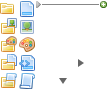
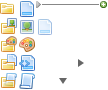
various tree/form stuff

Changed region(s): [[0.3333, 0.2, 0.5, 0.4]]

diff --git a/public/stylesheets/forms.css b/public/stylesheets/forms.css
@@ -1,0 +1,144 @@
+/* NORMALIZE AND RESET - obviously inspired by Yahoo's reset.css, but scoped to just form.breeze-form
+--------------------------------------------------------------------------------------------------*/
+form.breeze-form, form.breeze-form ul, form.breeze-form ol, form.breeze-form li, form.breeze-form fieldset, form.breeze-form legend, form.breeze-form input, form.breeze-form textarea, form.breeze-form select, form.breeze-form p { margin:0; padding:0; }
+form.breeze-form fieldset { border:0; }
+form.breeze-form em, form.breeze-form strong { font-style:normal; font-weight:normal; }
+form.breeze-form ol, form.breeze-form ul { list-style:none; }
+form.breeze-form abbr, form.breeze-form acronym { border:0; font-variant:normal; }
+form.breeze-form input, form.breeze-form textarea, form.breeze-form select { font-family:inherit; font-size:inherit; font-weight:inherit; }
+form.breeze-form input, form.breeze-form textarea, form.breeze-form select { font-size:100%; }
+form.breeze-form legend { white-space:normal; color:#000; }
+
+/* SEMANTIC ERRORS
+--------------------------------------------------------------------------------------------------*/
+form.breeze-form ul.errors { color:#cc0000; margin:0.5em 0 1.5em 25%; list-style:square; }
+form.breeze-form ul.errors li { padding:0; border:none; display:list-item; }
+
+/* FIELDSETS & LISTS
+--------------------------------------------------------------------------------------------------*/
+form.breeze-form fieldset { }
+form.breeze-form fieldset.inputs { }
+form.breeze-form fieldset.buttons { padding-left:25%; }
+form.breeze-form fieldset ol { }
+form.breeze-form fieldset.buttons li { float:left; padding-right:0.5em; }
+
+/* clearfixing the fieldsets */
+form.breeze-form fieldset { display: inline-block; }
+form.breeze-form fieldset:after { content: "."; display: block; height: 0; clear: both; visibility: hidden; }
+html[xmlns] form.breeze-form fieldset { display: block; }
+* html form.breeze-form fieldset { height: 1%; }
+
+/* INPUT LIs
+--------------------------------------------------------------------------------------------------*/
+form.breeze-form fieldset > ol > li { margin-bottom: 8px; }
+
+/* clearfixing the li's */
+form.breeze-form fieldset > ol > li { display: inline-block; }
+form.breeze-form fieldset > ol > li:after { content: "."; display: block; height: 0; clear: both; visibility: hidden; }
+html[xmlns] form.breeze-form fieldset > ol > li { display: block; }
+* html form.breeze-form fieldset > ol > li { height: 1%; }
+
+form.breeze-form fieldset > ol > li.required { }
+form.breeze-form fieldset > ol > li.optional { }
+form.breeze-form fieldset > ol > li.error { }
+
+/* LABELS
+--------------------------------------------------------------------------------------------------*/
+form.breeze-form fieldset > ol > li label { display:block; width:25%; float:left; padding-top:.2em; }
+form.breeze-form fieldset > ol > li > li label { line-height:100%; padding-top:0; }
+form.breeze-form fieldset > ol > li > li label input { line-height:100%; vertical-align:middle; margin-top:-0.1em;}
+
+/* NESTED FIELDSETS AND LEGENDS (radio, check boxes and date/time inputs use nested fieldsets)
+--------------------------------------------------------------------------------------------------*/
+form.breeze-form fieldset > ol > li fieldset { position:relative; }
+form.breeze-form fieldset > ol > li fieldset legend { position:absolute; width:95%; padding-top:0.1em; left: 0px; }
+form.breeze-form fieldset > ol > li fieldset legend span { position:absolute; }
+form.breeze-form fieldset > ol > li fieldset legend.label label { position:absolute; }
+form.breeze-form fieldset > ol > li fieldset ol { float:left; width:74%; margin:0; padding:0 0 0 25%; }
+form.breeze-form fieldset > ol > li fieldset ol li { padding:0; border:0; }
+
+/* INLINE HINTS
+--------------------------------------------------------------------------------------------------*/
+form.breeze-form fieldset > ol > li p.inline-hints { color:#666; margin:0.5em 0 0 25%; }
+
+/* INLINE ERRORS
+--------------------------------------------------------------------------------------------------*/
+form.breeze-form fieldset > ol > li p.inline-errors { color:#cc0000; margin:0.5em 0 0 25%; }
+form.breeze-form fieldset > ol > li ul.errors { color:#cc0000; margin:0.5em 0 0 25%; list-style:square; }
+form.breeze-form fieldset > ol > li ul.errors li { padding:0; border:none; display:list-item; }
+
+/* STRING & NUMERIC OVERRIDES
+--------------------------------------------------------------------------------------------------*/
+form.breeze-form fieldset > ol > li.string input { max-width:74%; }
+form.breeze-form fieldset > ol > li.password input { max-width: 13em; }
+form.breeze-form fieldset > ol > li.numeric input { max-width:74%; }
+
+/* TEXTAREA OVERRIDES
+--------------------------------------------------------------------------------------------------*/
+form.breeze-form fieldset > ol > li.text textarea { width:74%; }
+
+/* HIDDEN OVERRIDES
+The dual declarations are required because of our clearfix display hack on the LIs, which is more
+specific than the more general rule below. TODO: Revist the clearing hack and this rule.
+--------------------------------------------------------------------------------------------------*/
+form.breeze-form fieldset ol li.hidden,
+html[xmlns] form.breeze-form fieldset ol li.hidden { display:none; }
+
+/* BOOLEAN OVERRIDES
+--------------------------------------------------------------------------------------------------*/
+form.breeze-form fieldset > ol > li.boolean label { padding-left:25%; width:auto; }
+form.breeze-form fieldset > ol > li.boolean label input { margin:0 0.5em 0 0.2em; }
+
+/* RADIO OVERRIDES
+--------------------------------------------------------------------------------------------------*/
+form.breeze-form fieldset > ol > li.radio { }
+form.breeze-form fieldset > ol > li.radio fieldset ol { margin-bottom:-0.6em; }
+form.breeze-form fieldset > ol > li.radio fieldset ol li { margin:0.1em 0 0.5em 0; }
+form.breeze-form fieldset > ol > li.radio fieldset ol li label { float:none; width:100%; }
+form.breeze-form fieldset > ol > li.radio fieldset ol li label input { margin-right:0.2em; }
+
+
+/* CHECK BOXES (COLLECTION) OVERRIDES
+--------------------------------------------------------------------------------------------------*/
+form.breeze-form fieldset > ol > li.check_boxes { }
+form.breeze-form fieldset > ol > li.check_boxes fieldset ol { margin-bottom:-0.6em; }
+form.breeze-form fieldset > ol > li.check_boxes fieldset ol li { margin:0.1em 0 0.5em 0; }
+form.breeze-form fieldset > ol > li.check_boxes fieldset ol li label { float:none; width:100%; }
+form.breeze-form fieldset > ol > li.check_boxes fieldset ol li label input { margin-right:0.2em; }
+
+/* DATE & TIME OVERRIDES
+--------------------------------------------------------------------------------------------------*/
+form.breeze-form fieldset > ol > li.date fieldset ol li,
+form.breeze-form fieldset > ol > li.time fieldset ol li,
+form.breeze-form fieldset > ol > li.datetime fieldset ol li { float:left; width:auto; margin:0 .3em 0 0; }
+
+form.breeze-form fieldset > ol > li.date fieldset ol li label,
+form.breeze-form fieldset > ol > li.time fieldset ol li label,
+form.breeze-form fieldset > ol > li.datetime fieldset ol li label { display:none; }
+
+form.breeze-form fieldset > ol > li.date fieldset ol li label input, 
+form.breeze-form fieldset > ol > li.time fieldset ol li label input, 
+form.breeze-form fieldset > ol > li.datetime fieldset ol li label input { display:inline; margin:0; padding:0;  }
+
+/*}}}*/
+
+/* Overrides {{{ */
+
+form.breeze-form fieldset { display: block; }
+
+form.breeze-form abbr {
+  color: #e33100;
+  font-size: 200%;
+  line-height: 0.3em;
+  font-weight: bold;
+  vertical-align: bottom;
+  margin-left: 0.25em;
+}
+
+form.breeze-form fieldset > ol > li { display: block; clear: left; }
+form.breeze-form fieldset > ol > li label { line-height: 125%; }
+form.breeze-form input, form.breeze-form textarea, form.breeze-form select { font-size: 125%; }
+form.breeze-form fieldset > ol > li.string input { width:74%; }
+
+
+/*}}}*/

diff --git a/public/javascripts/pages.js b/public/javascripts/pages.js
@@ -1,0 +1,69 @@
+$(function() {
+  $('#left #pages').tree({
+    ui: {
+      theme_path: '/breeze/javascripts/jstree/themes/breeze/style.css',
+      theme_name: 'breeze',
+      dots: false
+    },
+    plugins: {
+      contextmenu: {
+        items: {
+          create: {
+						label	: "New…",
+						icon	: "add_page",
+						visible	: function(node, tree_obj) { if (node.length != 1) return 0; return tree_obj.check("creatable", node); }, 
+						action	: function(node, tree_obj) {
+						  var parent_id = $(node).attr('id').substring(5);
+              $.get('/admin/pages/new?page[parent_id]=' + parent_id, function(data) {
+                $('<div></div>').html(data).dialog({
+                  title: 'New page',
+                  modal: true,
+                  resizable: false,
+                  width: 480,
+                  buttons: {
+                    Cancel: function() {
+                      $(this).dialog('close');
+                    },
+                    OK: function() {
+                      $('#page_new:visible').trigger('submit');
+                    }
+                  },
+                });
+              });
+						}
+					},
+        }
+      }
+    },
+    types: {
+      'root': {
+        renameable: false,
+        draggable: false,
+        deletable: false
+      },
+      'page': {
+        valid_children: [ 'page' ]
+      }
+    },
+    rules: {
+      multiple: false,
+      drag_copy: false
+    },
+    callback: {
+      onselect: function(node, tree) {
+        a = $(node).children('a');
+        id = $(node).attr('id').substring(5);
+        url = '/admin/pages/' + id + '/edit';
+        open_tab(id, url, {
+          close:true,
+          title:$(a).attr('title'),
+          success: function(tab, pane) {
+          }
+        });
+      },
+      onmove: function(move_object) {
+        // TODO: implement!
+      }
+    }
+  });
+})

diff --git a/public/stylesheets/ui-theme.css b/public/stylesheets/ui-theme.css
@@ -50,7 +50,7 @@
 .ui-widget { font-family: Gotham, Helvetica Neue, Helvetica, Arial, sans-serif; font-size: 13px; }
 .ui-widget .ui-widget { font-size: 1em; }
 .ui-widget input, .ui-widget select, .ui-widget textarea, .ui-widget button { font-family: Gotham, Helvetica Neue, Helvetica, Arial, sans-serif; font-size: 1em; }
-.ui-widget-content { border: 1px solid #aaaaaa; background: #ffffff url(../images/ui/ui-bg_flat_75_ffffff_40x100.png) 50% 50% repeat-x; color: #222222; }
+.ui-widget-content { border: 1px solid #aaaaaa; background: #f2f2f2; color: #222222; }
 .ui-widget-content a { color: #222222; }
 .ui-widget-header { border: 1px solid #aaaaaa; background: #cccccc url(../images/ui/ui-bg_highlight-soft_75_cccccc_1x100.png) 50% 50% repeat-x; color: #222222; font-weight: bold; }
 .ui-widget-header a { color: #222222; }
@@ -389,7 +389,7 @@
   -moz-border-radius: 0px;
 }
 .ui-dialog .ui-dialog-titlebar-close { display: none; }
-.ui-dialog .ui-dialog-content { border: 0; padding: 8px 0px; background: none; overflow: auto; zoom: 1; }
+.ui-dialog .ui-dialog-content { border: 0; padding: 8px 0px; background: none; overflow: visible; zoom: 1; }
 .ui-dialog .ui-dialog-buttonpane { text-align: left; border-width: 1px 0 0 0; background-image: none; margin: 8px 0 0 0; padding: 8px 0px 0px; }
 .ui-dialog .ui-dialog-buttonpane button { float: right; margin: 0px 0px 0px 8px; cursor: pointer; width:auto; overflow:visible; }
 .ui-dialog .ui-resizable-se { width: 14px; height: 14px; right: 3px; bottom: 3px; }

diff --git a/public/javascripts/jstree/themes/breeze/style.css b/public/javascripts/jstree/themes/breeze/style.css
@@ -16,6 +16,7 @@
 
 .tree-breeze li             a > .icon { background: url(icons.png) no-repeat -19px -1px; }
 .tree-breeze .folder      > a > .icon { background-position: 0px 0px; }
+.tree-breeze .page        > a > .icon,
 .tree-breeze .file        > a > .icon { background-position: -19px -1px; }
 .tree-breeze .png         > a > .icon,
 .tree-breeze .jpg         > a > .icon,

diff --git a/public/stylesheets/admin.css b/public/stylesheets/admin.css
@@ -11,7 +11,7 @@ body, td, input, select, textarea, button {
 }
 
 a {
-  color: #e33100;
+  color: #ec008c;
   outline: none;
 }
 

diff --git a/lib/breeze/admin/form_builder.rb b/lib/breeze/admin/form_builder.rb
@@ -1,0 +1,56 @@
+module Breeze
+  module Admin
+    class FormBuilder < ActionView::Helpers::FormBuilder
+      unloadable
+      
+      attr_reader :template
+      
+      def fieldset(options = {}, &block)
+        contents = returning "" do |str|
+          str << (options.key?(:legend) ? template.content_tag(:legend, options.delete(:legend)) : "")
+          str << template.content_tag(:ol, :class => :form, &block)
+        end.html_safe
+        template.content_tag :fieldset, contents, options
+      end
+
+      (field_helpers - %w(label check_box radio_button fields_for hidden_field)).each do |sym|
+        src, line = <<-end_src, __LINE__ + 1
+          def #{sym}(method, options = {})
+            wrap method, super(method, filter_options(options)), options
+          end
+        end_src
+        class_eval src, __FILE__, line
+      end
+      
+      def select(method, choices, options = {}, html_options = {})
+        wrap method, super(method, choices, filter_options(options), html_options), options
+      end
+      
+      def label(method, text = nil, options = {})
+        returning super do |str|
+          if options[:required]
+            str.gsub! /<\/label>$/, "<abbr title=\"required\">*</abbr></label>"
+          end
+        end.html_safe
+      end
+      
+    protected
+      def wrap(method, input, options)
+        contents = returning "" do |str|
+          str << label(method, options[:label], :required => options[:required]) unless options[:label] == false
+          str << input
+          str << template.content_tag(:p, options[:hint], :class => "inline-hint") if options[:hint]
+        end
+        template.content_tag :li, contents.html_safe, (options[:wrapper] || {})
+      end
+      
+      def filter_options(options)
+        options.except *%w(label hint)
+      end
+      
+      def sanitize_id(name)
+        name.to_s.gsub(']','').gsub(/[^-a-zA-Z0-9:.]/, "_")
+      end
+    end
+  end
+end

diff --git a/app/helpers/breeze/admin/admin_helper.rb b/app/helpers/breeze/admin/admin_helper.rb
@@ -6,4 +6,31 @@ module Breeze::Admin::AdminHelper
       }.join.html_safe
     end
   end
+  
+  [:form_for, :fields_for].each do |meth|
+    src = <<-END_SRC
+      def breeze_#{meth}(record_or_name_or_array, *args, &proc)
+        options = args.extract_options!
+        options[:builder] ||= Breeze::Admin::FormBuilder
+        options[:html] ||= {}
+        
+        class_names = options[:html][:class] ? options[:html][:class].split(" ") : []
+        class_names << "breeze-form"
+        if options[:as]
+          class_names << options[:as]
+        else 
+          class_names << case record_or_name_or_array
+            when String, Symbol then record_or_name_or_array.to_s               # :post => "post"
+            when Array then record_or_name_or_array.last.class.to_s.underscore  # [@post, @comment] # => "comment"
+            else record_or_name_or_array.class.to_s.underscore                  # @post => "post"
+          end
+        end
+        options[:html][:class] = class_names.join(" ")
+        
+        #{meth}(record_or_name_or_array, *(args << options), &proc)
+      end
+    END_SRC
+    module_eval src, __FILE__, __LINE__
+  end
+  
 end
